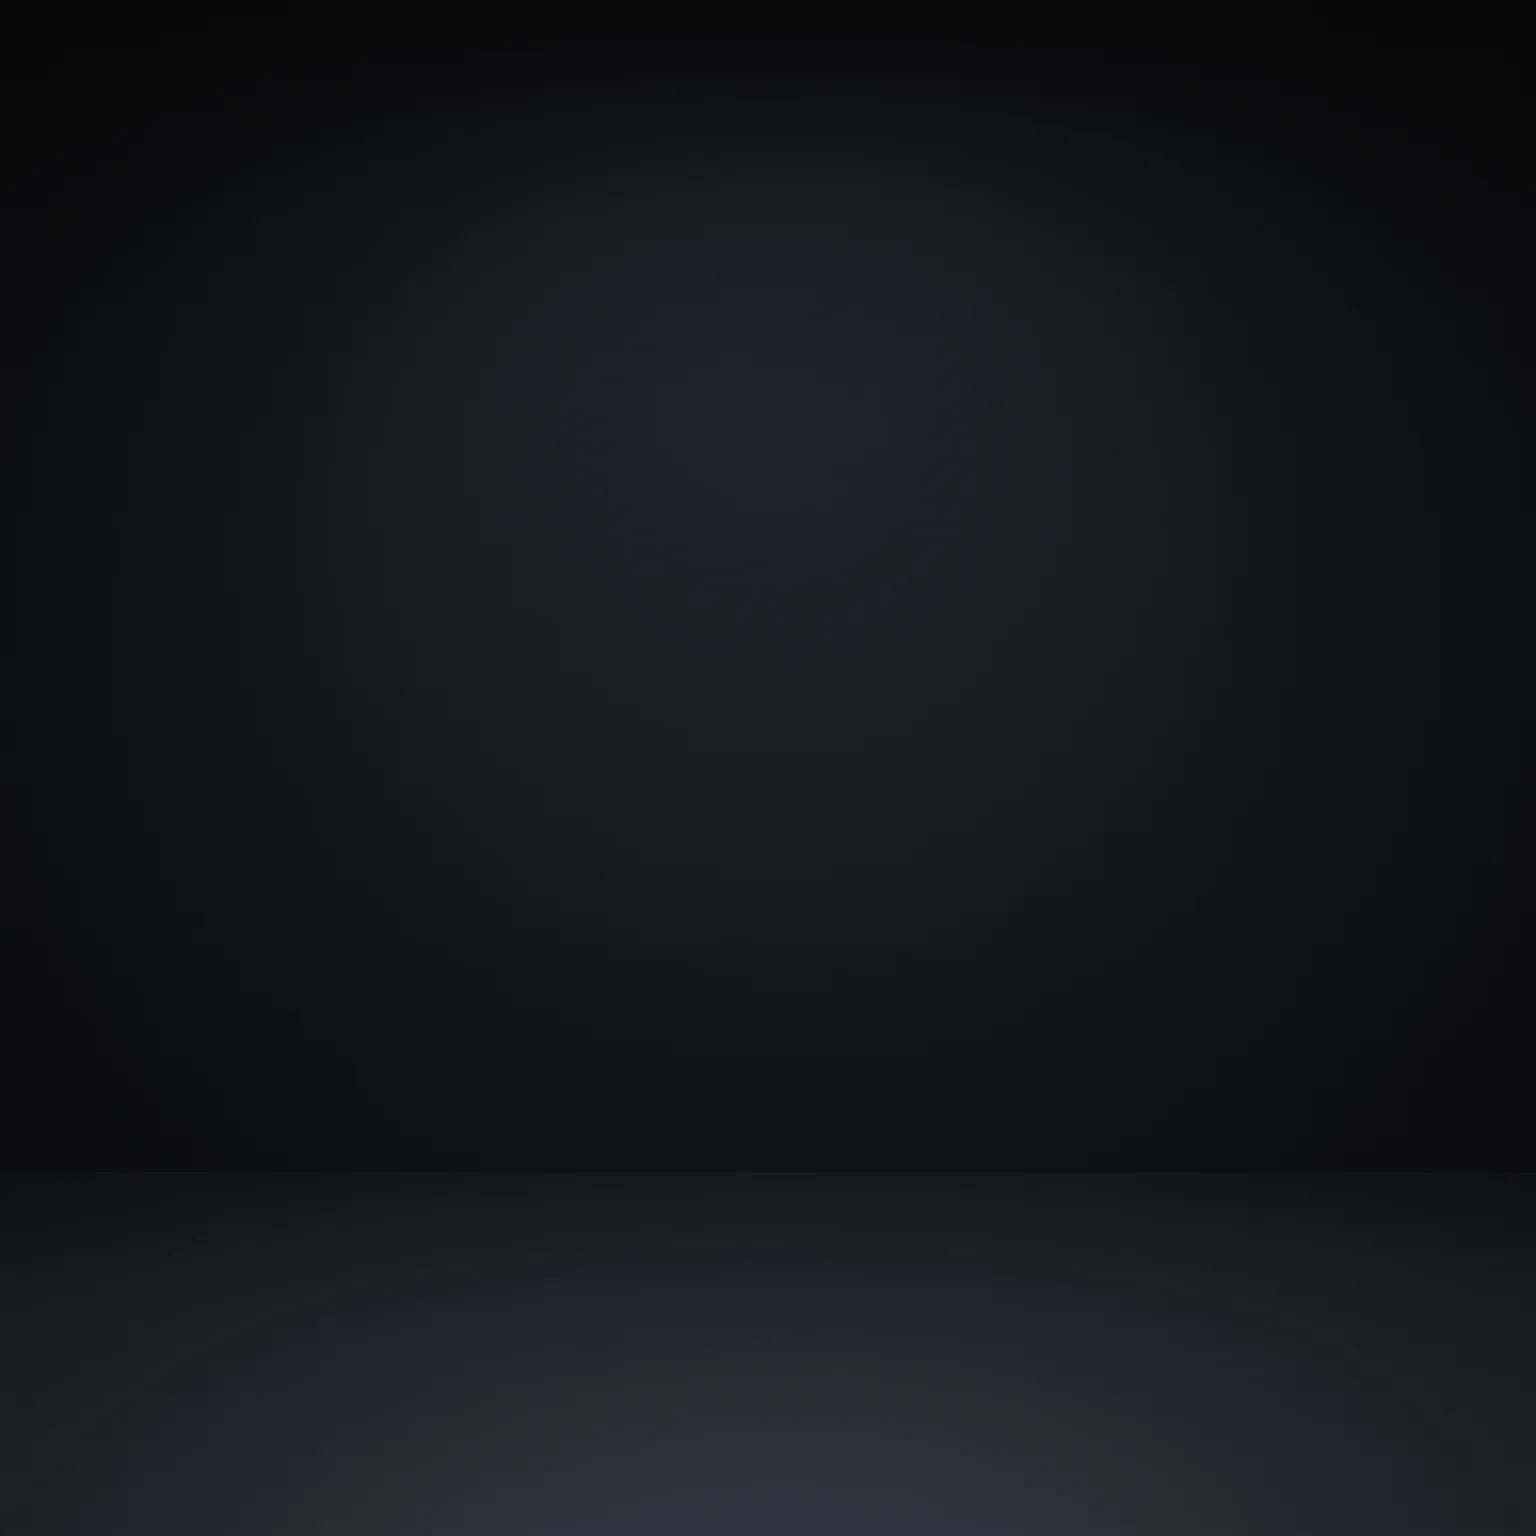
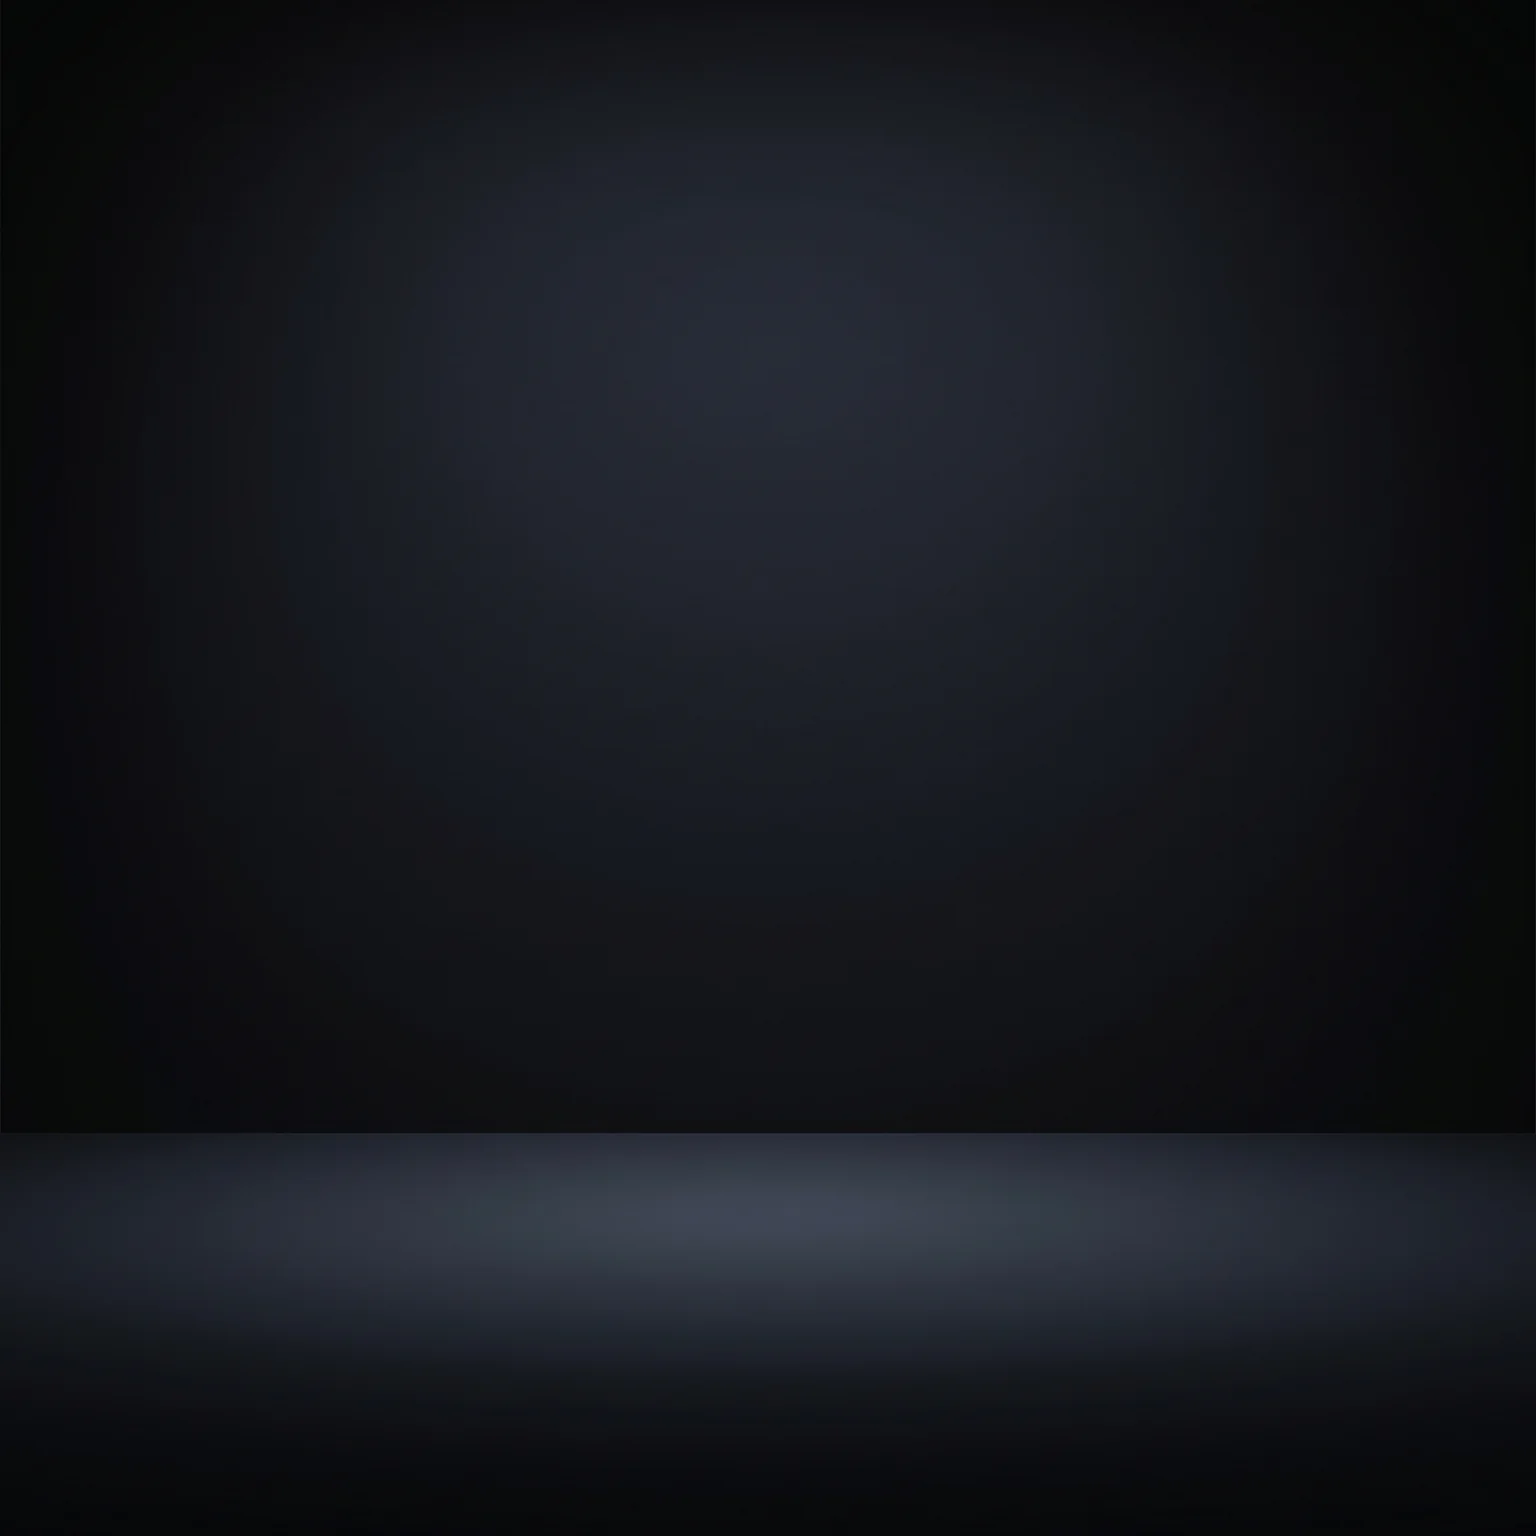
fix(map): ship MapLibre's worker, draw the real track, close the room
── THE MAP NEVER WORKED IN PRODUCTION ───────────────────────────────────────
"Still the yellow lines on black" was my SVG fallback, and it was showing on
every device because the basemap could never finish loading in a built bundle.

MapLibre resolves its tile worker at RUNTIME from inside its own bundle —
`new URL('./maplibre-gl-worker.mjs', import.meta.url)` — which in production
means `/assets/maplibre-gl-worker.mjs`, a file the bundler never emits because
nothing imports it. The failure is the nastiest shape available: the map
constructs, fetches its style and every tile (all 200s), reports its sources
loaded, and then never fires `load`, never paints and never errors. The tile
provider looked innocent the whole time because it WAS innocent.

I only ever verified this in the dev server, where I had already fixed the same
missing file from the other end (`server.fs.allow`, for the worktree symlink).
Dev and prod were two views of one missing file and I had patched only the view
I was looking at. Verified against a real `vite build` + `vite preview` now, not
the dev server.

TWO files, not one: the worker is an ES module that imports the library's shared
core from a sibling path, so shipping the worker alone gets it fetched and no
further — it fails to instantiate, silently, with the same end result. Copied
from the installed package at build time so they cannot drift from the version
actually bundled.
[…]

Changed region(s): [[0.0625, 0.7188, 0.9375, 0.8438], [0.0, 0.9062, 1.0, 1.0]]

diff --git a/frontend/vite.config.ts b/frontend/vite.config.ts
@@ -1,13 +1,52 @@
 /// <reference types="vitest/config" />
-import { realpathSync } from 'node:fs'
+import { readFileSync, realpathSync } from 'node:fs'
 import { fileURLToPath } from 'node:url'
 import { defineConfig, searchForWorkspaceRoot } from 'vite'
 import react from '@vitejs/plugin-react'
 import tailwindcss from '@tailwindcss/vite'
 
+
+/**
+ * Ship MapLibre's tile worker.
+ *
+ * MapLibre resolves its worker at RUNTIME, from inside its own bundle:
+ *   new URL('./maplibre-gl-worker.mjs', import.meta.url)
+ * In a production build that resolves to `/assets/maplibre-gl-worker.mjs` — a
+ * file the bundler never emits, because nothing IMPORTS it. The result is the
+ * nastiest possible failure: the map constructs, fetches its style and every
+ * tile (all 200s), reports its sources loaded, and then never fires `load`,
+ * never paints, and never errors. Every route page fell back to its SVG trace
+ * on every device, and the tile provider looked innocent because it was.
+ *
+ * Dev has the same problem for a different reason (the worker's real path lies
+ * outside the Vite root in a git worktree), which is why `server.fs.allow`
+ * below exists. Both are the same missing file seen from two angles.
+ *
+ * Copied from the installed package rather than vendored into the repo, so it
+ * can never drift from the version actually bundled.
+ */
+function maplibreWorker() {
+  // TWO files, not one. The worker is an ES module that imports the library's
+  // shared core from a SIBLING path (`./maplibre-gl-shared.mjs`), so shipping
+  // the worker alone gets it as far as being fetched and no further: it fails
+  // to instantiate, silently, with the same end result as not shipping it.
+  // `shared` has no imports of its own, so the pair is the whole graph.
+  const FILES = ['maplibre-gl-worker.mjs', 'maplibre-gl-shared.mjs']
+  return {
+    name: 'maplibre-worker-asset',
+    apply: 'build' as const,
+    generateBundle(this: { emitFile: (f: { type: 'asset'; fileName: string; source: string }) => void }) {
+      for (const name of FILES) {
+        const from = realpathSync(fileURLToPath(new URL(`./node_modules/maplibre-gl/dist/${name}`, import.meta.url)))
+        this.emitFile({ type: 'asset', fileName: `assets/${name}`, source: readFileSync(from, 'utf8') })
+      }
+    },
+  }
+}
+
 // https://vite.dev/config/
 export default defineConfig({
-  plugins: [react(), tailwindcss()],
+  plugins: [react(), tailwindcss(), maplibreWorker()],
   // MapLibre GL must not go through esbuild dep pre-bundling. It spawns a web
   // worker for tile parsing, and the pre-bundled copy resolves that worker's
   // URL incorrectly: the map constructs, fetches its style and every TileJSON,

diff --git a/backend/tests/test_activity_route_detail.py b/backend/tests/test_activity_route_detail.py
@@ -1,0 +1,61 @@
+"""One ride's route is a different payload from a list of thumbnails.
+
+Both come out of `route_sketch_polyline`; only the point budget differs, and
+that budget is the whole difference between a map a rider recognises and a
+shape that is confidently wrong.
+"""
+import inspect
+
+from app.api import activities
+from app.services.activity_stream_analysis import (
+    ROUTE_DETAIL_POINTS,
+    ROUTE_SKETCH_POINTS,
+    route_sketch_polyline,
+)
+
+
+def _switchbacks(n: int) -> dict:
+    """A climb of tight hairpins — the case a coarse sketch destroys."""
+    lat, lng = [], []
+    for i in range(n):
+        t = i / (n - 1)
+        lat.append(47.0 + t * 0.05)
+        lng.append(11.0 + (0.004 if (i // 12) % 2 else -0.004))
+    return {"latitude": lat, "longitude": lng}
+
+
+def test_the_detail_route_is_far_denser_than_a_thumbnail():
+    """48 points over a 50 km ride is a point every kilometre: every bend cut,
+    every switchback a straight line. A rider looking at roads they know sees a
+    ride they did not do."""
+    assert ROUTE_DETAIL_POINTS > 10 * ROUTE_SKETCH_POINTS
+
+
+def test_a_hairpin_climb_survives_the_detail_budget_and_not_the_sketch():
+    """THE FAILURE, made concrete. The same track, sampled two ways: the
+    thumbnail budget cannot carry the corners and the detail budget can."""
+    s = _switchbacks(3000)
+    sketch = route_sketch_polyline(s)
+    detail = route_sketch_polyline(s, max_points=ROUTE_DETAIL_POINTS)
+    assert sketch is not None and detail is not None
+
+    # Count direction reversals in longitude — one per hairpin that survived.
+    def turns(poly):
+        d = [b[1] - a[1] for a, b in zip(poly, poly[1:]) if b[1] != a[1]]
+        return sum(1 for x, y in zip(d, d[1:]) if (x > 0) != (y > 0))
+
+    assert turns(detail) > 3 * turns(sketch)
+
+
+def test_the_single_activity_endpoint_asks_for_the_detail_budget():
+    """It reads the same two GPS channels as the list, so the only thing
+    stopping it shipping a thumbnail is this argument."""
+    src = inspect.getsource(activities.get_activity)
+    assert "ROUTE_DETAIL_POINTS" in src
+    assert "route_polyline" in src
+
+
+def test_the_list_still_ships_thumbnails():
+    """A 50-row page must not start carrying 50 full tracks."""
+    src = inspect.getsource(activities.list_activities)
+    assert "ROUTE_DETAIL_POINTS" not in src

diff --git a/backend/scripts/generate_starter_art.py b/backend/scripts/generate_starter_art.py
@@ -112,11 +112,23 @@ def _prompts() -> dict[str, str]:
             "COLOUR — MATCH THESE VALUES EXACTLY. This image is nearly BLACK, not grey.\n"
             "· The top edge of the wall is #0B0B0C — essentially black.\n"
             "· The wall lifts almost imperceptibly toward the horizon, reaching about #141416.\n"
-            "· Across the horizon the floor steps up only slightly, to about #1C1C20.\n"
-            "· The floor continues lifting toward the very bottom edge, reaching at most #2A2A2E "
-            "in the nearest strip.\n"
+            "· Just below the horizon the floor is at its BRIGHTEST — about #2C2E34. This is the "
+            "only light part of the picture and it is a narrow band, because it is where the "
+            "subject stands.\n"
+            "· From there the floor DARKENS again toward the viewer, falling back to about "
+            "#0C0C0E along the very bottom edge of the frame.\n"
             "Cool blue-black throughout — never warm, never brown, never a mid grey. If any part "
             "of this picture reads as 'grey' rather than 'black', it is wrong.\n\n"
+            "THE FLOOR IS BRIGHTEST UNDER THE SUBJECT AND DARKEST AT THE BOTTOM EDGE, and that "
+            "order matters more than any other instruction here. A studio floor lit from above "
+            "falls away toward the camera, which is what makes it read as a floor receding rather "
+            "than a gradient pointing down. It is also what lets a shadow under the wheels be "
+            "seen at all — a shadow needs light beside it.\n"
+            "The previous version did the opposite and lifted all the way to the frame edge. That "
+            "edge is where the app continues, so the picture handed the page a pale blue-grey "
+            "(#32353F) to carry on in, three times lighter than the app around it: the screen "
+            "ended up in three stacked tones with a bright band across the middle of it. The "
+            "picture must END in the app's own black so the room and the page are one surface.\n\n"
             "LIGHT: one broad soft source from high and slightly front, falling off gently and "
             "evenly toward the left and right edges. NO bright band along the horizon, NO glowing "
             "pool on the floor, NO soft blob or halo anywhere on the wall — the wall is an even, "

diff --git a/backend/app/api/activities.py b/backend/app/api/activities.py
@@ -20,7 +20,11 @@ from app.models.user import User
 from app.schemas.activity import ActivityCreate, ActivityListResponse, ActivityRead
 from app.schemas.ride_feedback import RideFeedbackIn, RideFeedbackRead
 from app.services import activity_service
-from app.services.activity_stream_analysis import analyze_stream_blob, route_sketch_polyline
+from app.services.activity_stream_analysis import (
+    ROUTE_DETAIL_POINTS,
+    analyze_stream_blob,
+    route_sketch_polyline,
+)
 from app.services.athlete_service import get_or_create_profile
 
 router = APIRouter(prefix="/activities", tags=["activities"])
@@ -200,7 +204,8 @@ async def get_activity(
     ).first()
     if row is not None:
         out.route_polyline = route_sketch_polyline(
-            {"latitude": _as_points(row[0]), "longitude": _as_points(row[1])}
+            {"latitude": _as_points(row[0]), "longitude": _as_points(row[1])},
+            max_points=ROUTE_DETAIL_POINTS,
         )
     return out
 

diff --git a/backend/app/services/activity_stream_analysis.py b/backend/app/services/activity_stream_analysis.py
@@ -149,6 +149,14 @@ def _gps(latitude: list, longitude: list) -> dict | None:
 # 50-row page stays a modest payload.
 ROUTE_SKETCH_POINTS = 48
 
+# ONE ride, drawn across a whole phone screen, is a different problem. 48 points
+# over a 50 km ride is a point every kilometre: every bend is cut, every switch-
+# back becomes a straight line, and a rider looking at the roads they know sees
+# a shape that is NOT the ride they did — which is worse than no map, because it
+# is confidently wrong. 1 200 keeps the corners at map zoom and still costs
+# about 25 KB, which is nothing against the basemap tiles beside it.
+ROUTE_DETAIL_POINTS = 1200
+
 
 def route_sketch_polyline(streams: dict | None, max_points: int = ROUTE_SKETCH_POINTS) -> list[list[float]] | None:
     """[[lat, lng], …] for a list-sized route sketch, or None without GPS.
